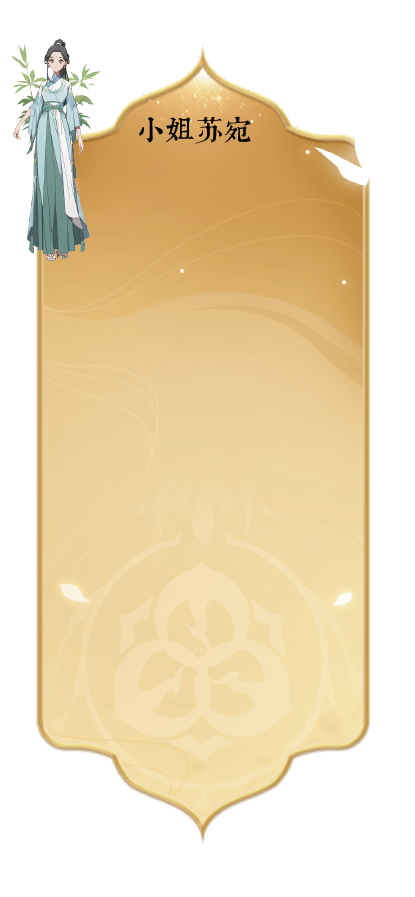
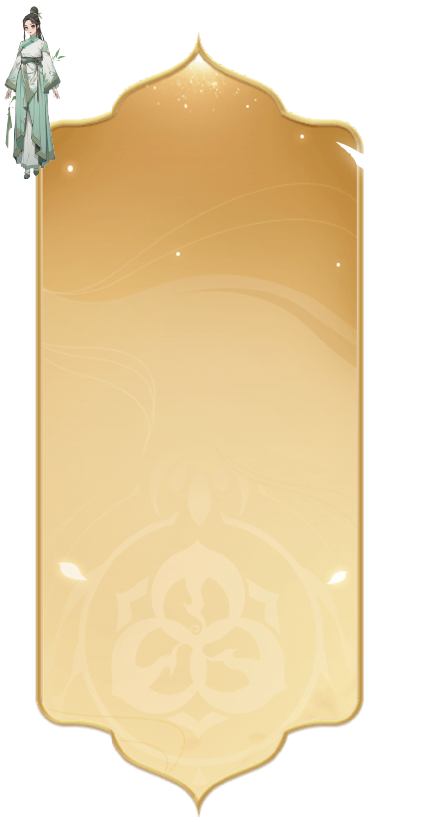
select roles

Changed region(s): [[0.0, 0.0, 0.8964, 1.0], [0.1446, 0.6387, 0.2024, 0.7299], [0.7229, 0.3345, 0.7518, 0.365]]

diff --git a/src/views/DetailView.vue b/src/views/DetailView.vue
@@ -1,8 +1,25 @@
 <template>
   <div class="about-bg">
-    <div class="desc-bg">
+    <div :class="`desc-bg desc-bg0${id}`">
       <div class="desc-wrapper">
-        <img :src="intro" alt="desc"/>
+        <template v-if="id == 0">
+          <img :src="intro00" alt="desc"/>
+        </template>
+        <template v-else-if="id == 1">
+          <img :src="intro01" alt="desc"/>
+        </template>
+        <template v-else-if="id == 2">
+          <img :src="intro02" alt="desc"/>
+        </template>
+        <template v-else-if="id == 3">
+          <img :src="intro03" alt="desc"/>
+        </template>
+        <template v-else-if="id == 4">
+          <img :src="intro04" alt="desc"/>
+        </template>
+        <template v-else-if="id == 5">
+          <img :src="intro05" alt="desc"/>
+        </template>
       </div>
       <div class="btns-area">
         <router-link to="/select">
@@ -17,15 +34,26 @@
 </template>
 
 <script>
-import intro from '../assets/images/desc-intro.png'
+import intro00 from '../assets/images/desc-intro00.png'
+import intro01 from '../assets/images/desc-intro01.png'
+import intro02 from '../assets/images/desc-intro02.png'
+import intro03 from '../assets/images/desc-intro03.png'
+import intro04 from '../assets/images/desc-intro04.png'
+import intro05 from '../assets/images/desc-intro05.png'
 import map from '../assets/images/detail-map.png'
 import back from '../assets/images/detail-back.png'
 export default {
   data () {
     return {
-      intro,
+      intro00,
+      intro01,
+      intro02,
+      intro03,
+      intro04,
+      intro05,
       map,
-      back
+      back,
+      id: this.$route.params.id
     }
   },
   mounted () {
@@ -61,10 +89,27 @@ export default {
   left: 0;
   width: 100%;
   height: 100%;
-  background-image: url(../assets/images/detail00.png);
   background-size: contain;
   background-repeat: no-repeat;
   background-position: center center;
+}
+.desc-bg00 {
+  background-image: url(../assets/images/detail00.png);
+}
+.desc-bg01 {
+  background-image: url(../assets/images/detail01.png);
+}
+.desc-bg02 {
+  background-image: url(../assets/images/detail02.png);
+}
+.desc-bg03 {
+  background-image: url(../assets/images/detail03.png);
+}
+.desc-bg04 {
+  background-image: url(../assets/images/detail04.png);
+}
+.desc-bg05 {
+  background-image: url(../assets/images/detail05.png);
 }
 .btns-area {
   z-index: 2;
